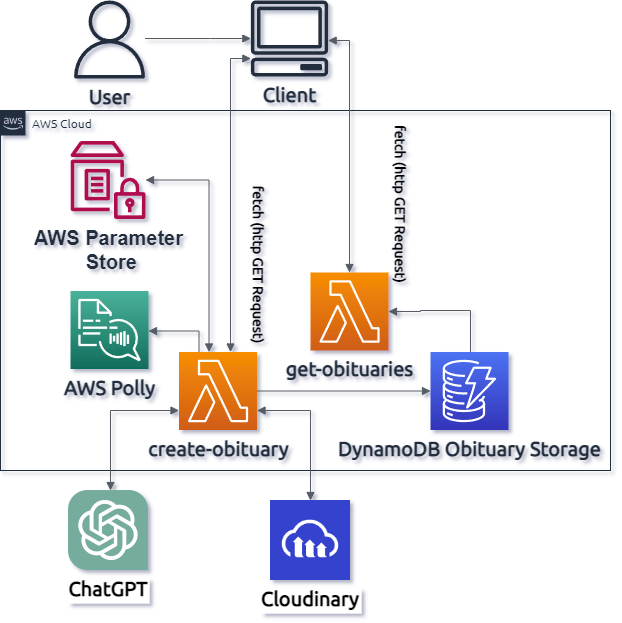
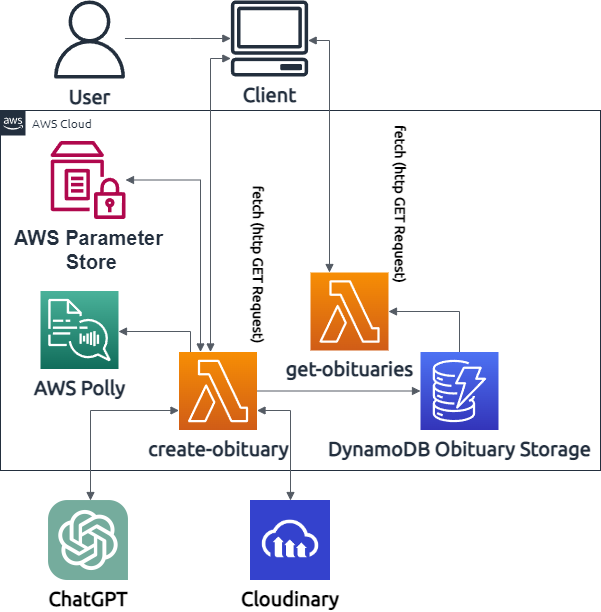
Changed Readme

Changed region(s): [[0.0, 0.0, 1.0, 1.0]]

diff --git a/README.md b/README.md
@@ -2,6 +2,6 @@
 
 <br/>
 <p align="center">
-  <img src="https://res.cloudinary.com/mkf/image/upload/v1680411648/last-show_dvjjez.svg" alt="the-last-show-architecture" width="800"/>
+  <img src="images/ObituaryAppDiagram.png" alt="the-last-show-architecture" width="800"/>
 </p>
 <br/>
